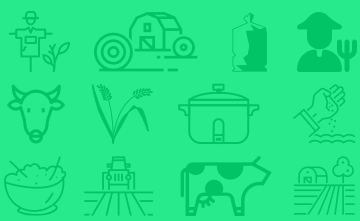
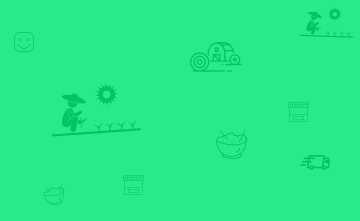
update website frontend

diff --git a/app/assets/stylesheets/website.scss b/app/assets/stylesheets/website.scss
@@ -4,13 +4,13 @@
 
 // Header with background pattern
 .header {
-  min-height: 50vh;
+  min-height: 40vh;
   background-image: url(asset-path("brand/agri_pattern.png"));
   img {
     max-height: 100%;
   }
   .container {
-      min-height: 35vh;
+      min-height: 30vh;
       display: flex;
       flex-direction: column;
       justify-content: space-between;
@@ -26,6 +26,7 @@
 
 // Footer with background pattern
 .footer {
+  margin-top: 100px;
   background-image: url(asset-path("brand/agri_pattern.png"));
   .footer-copyright {
     background-color: $primary-color-dark;

diff --git a/app/assets/javascripts/website.js b/app/assets/javascripts/website.js
@@ -1,11 +1,7 @@
 $(document).on('turbolinks:load', function() {
-  var sliderheight = $(".header").css("height");
   $(".dropdown-button").dropdown();
   $('ul.tabs').tabs();
-  $('.slider').slider({
-    indicators: false,
-    height: sliderheight,
-  });
+  $('.slider').slider();
   $('.carousel').carousel();
   $(".button-collapse").sideNav();
 })
